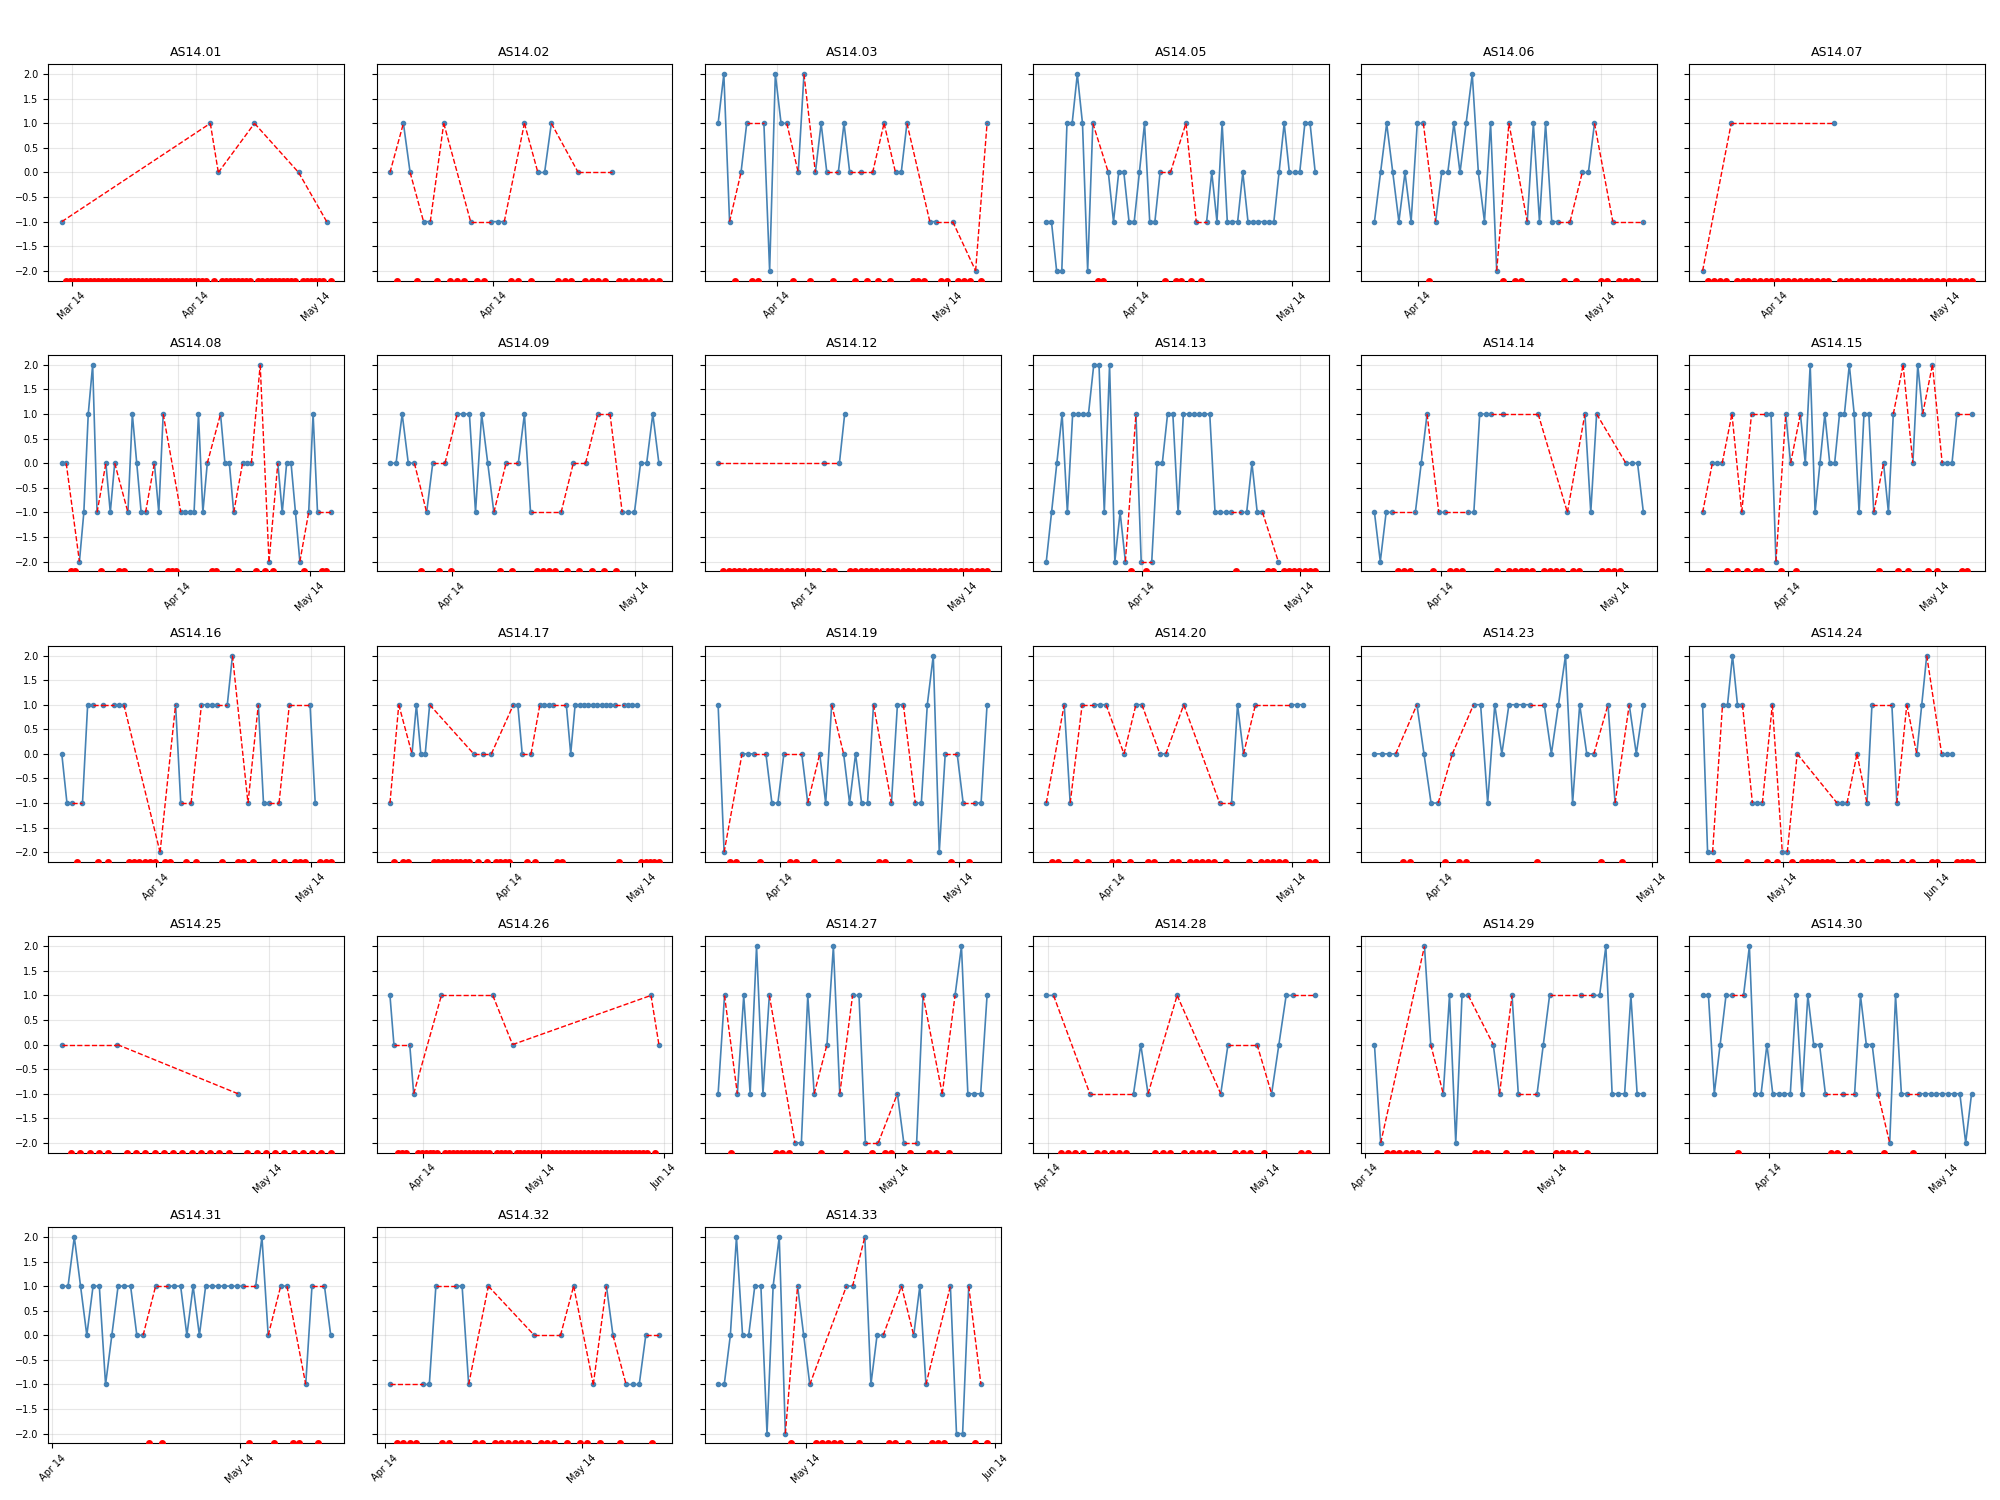
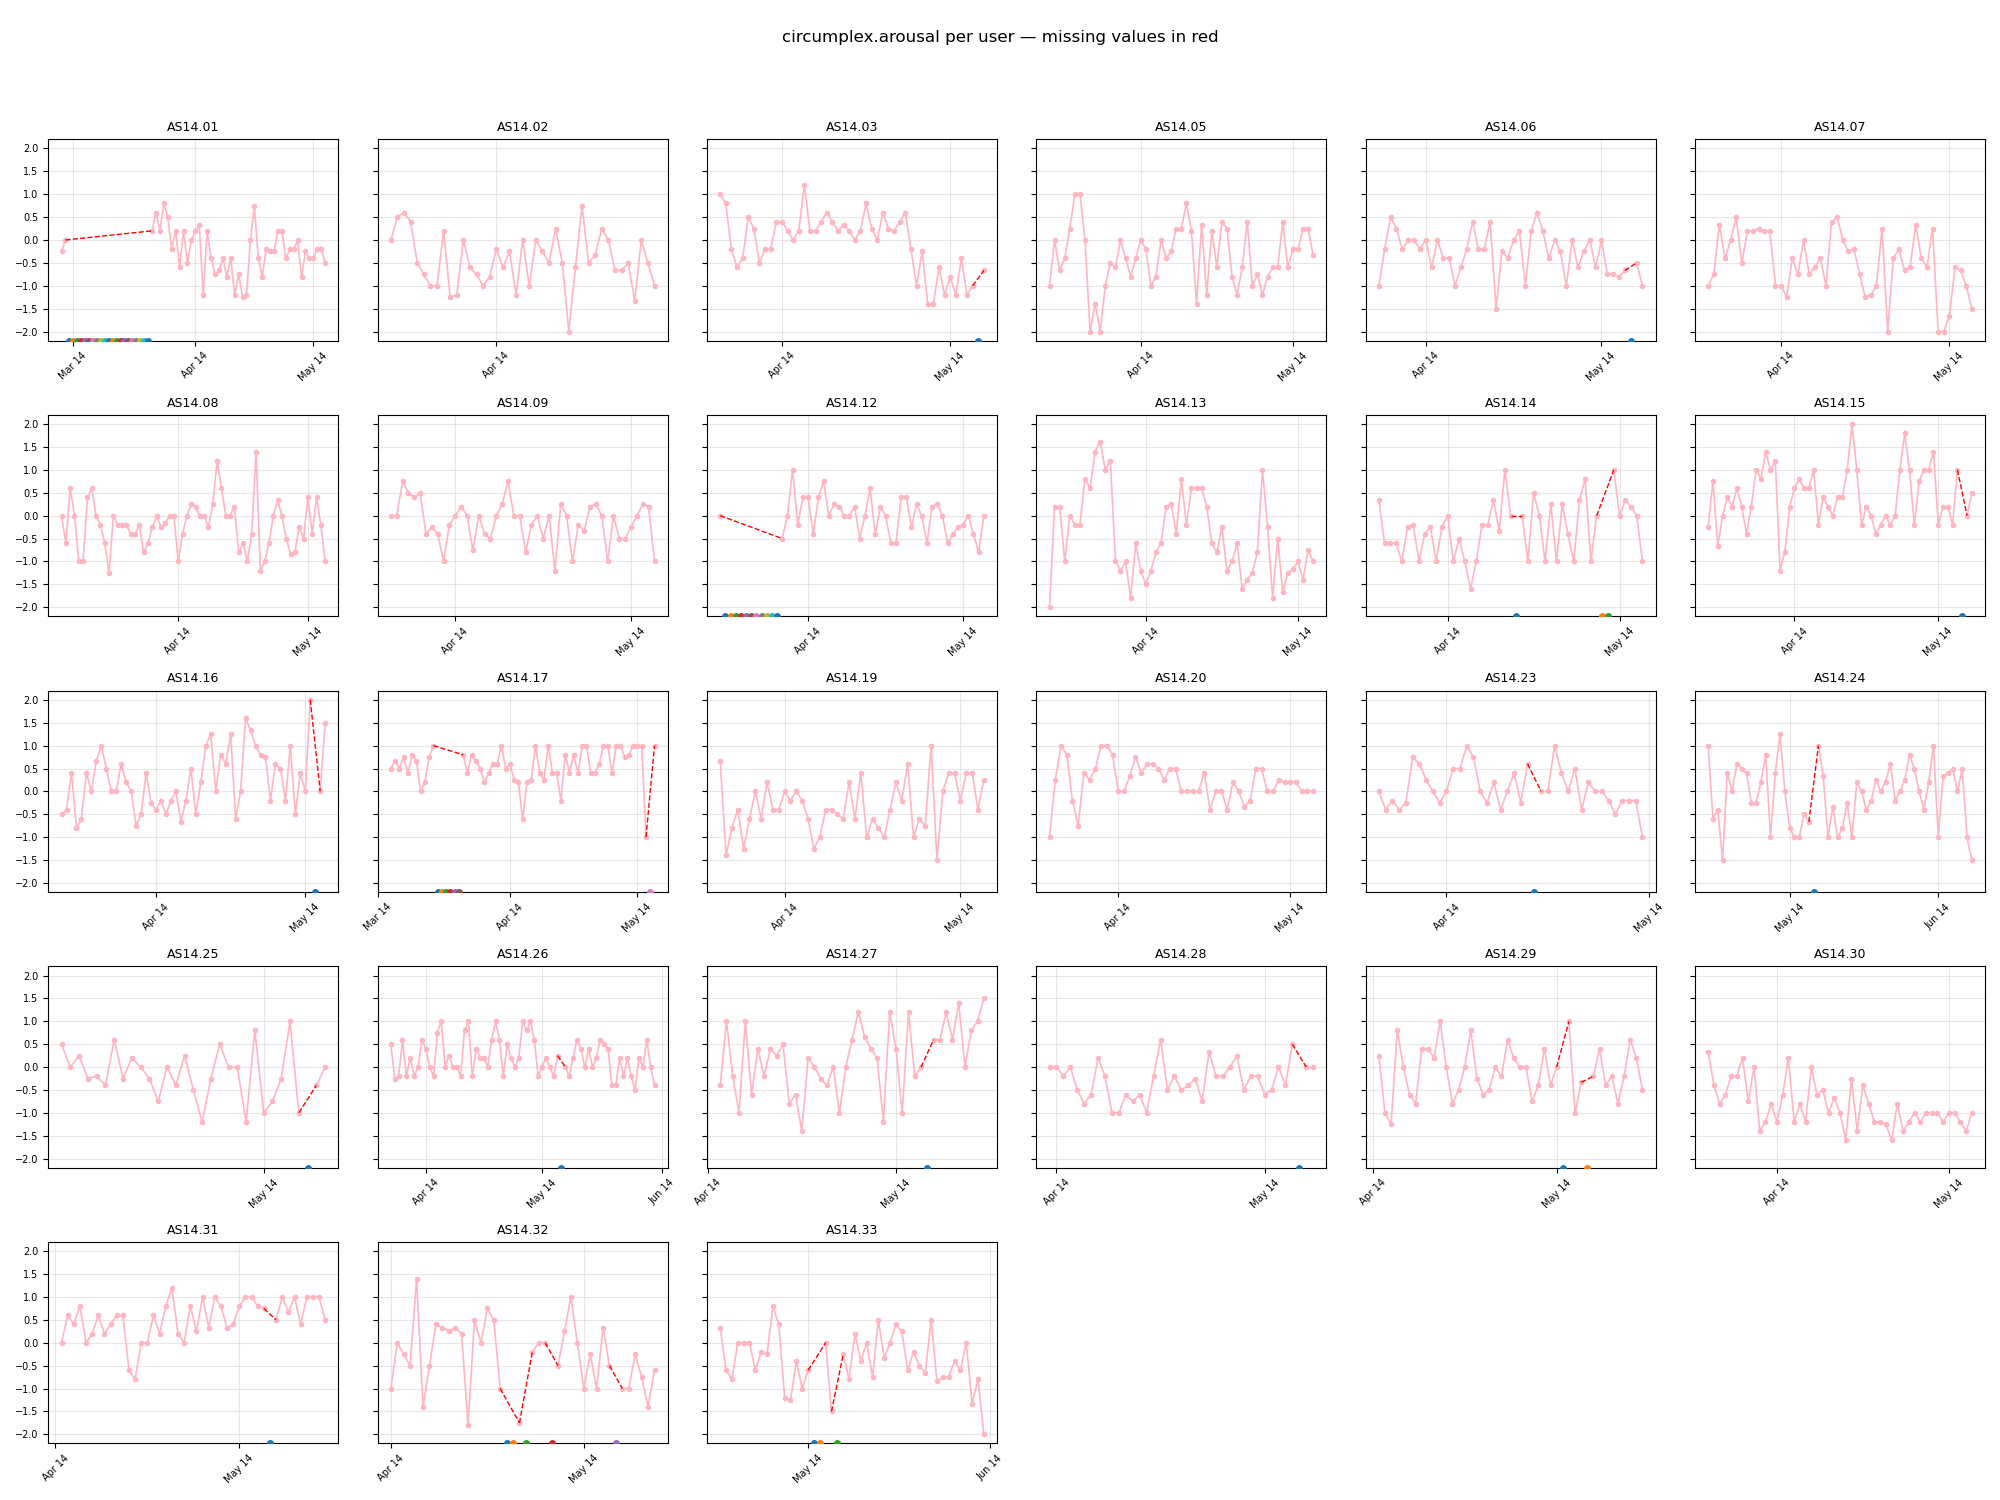
fixed plots again

diff --git a/data_cleaning.py b/data_cleaning.py
@@ -145,9 +145,23 @@ def missing_imputation(df, varname: str, imputation_func):
     return new_df
 
 
+import numpy as np
+import pandas as pd
+import matplotlib.pyplot as plt
+import matplotlib.dates as mdates
+
 def plot_valence_per_user_full_calendar(df, varname: str = 'circumplex.valence'):
+    # filter variable
     valence_df = df[df['variable'] == varname].copy()
-    valence_df = valence_df.sort_values(['id', 'date'])
+    
+    # ensure datetime
+    valence_df['date'] = pd.to_datetime(valence_df['date'])
+    
+    # extract date only (drop time!)
+    valence_df['date_day'] = valence_df['date'].dt.floor('D')
+    
+    # sort
+    valence_df = valence_df.sort_values(['id', 'date_day'])
     ids = valence_df['id'].unique()
 
     ncols = 6
@@ -157,29 +171,48 @@ def plot_valence_per_user_full_calendar(df, varname: str = 'circumplex.valence')
     axes = axes.flatten()
 
     print(f"==== MISSING DATE INFO for {varname} =======")
+    
     for i, uid in enumerate(ids):
         ax = axes[i]
 
-        # get df for each user ID
-        # map date to value"
-        user_df = valence_df[valence_df['id'] == uid].set_index('date')['value']
-        # if two values on the same datetime, take the mean:
-        user_daily = user_df.groupby(level=0).mean()
-        # create complete calendar, including missing dates
-        full_range = pd.date_range(user_daily.index.min(), user_daily.index.max(), freq='D')
-        # give nan-values to missing dates
+        # subset per user
+        user_df = valence_df[valence_df['id'] == uid]
+
+        # average per DAY (this is the key fix)
+        user_daily = (
+            user_df
+            .groupby('date_day')['value']
+            .mean()
+            .sort_index()
+        )
+
+        # full calendar (daily)
+        full_range = pd.date_range(
+            user_daily.index.min(),
+            user_daily.index.max(),
+            freq='D'
+        )
+
         user_full = user_daily.reindex(full_range)
 
-        #print missing values
+        # missing stats
         n_total = len(user_full)
         n_missing = user_full.isna().sum()
         frac = n_missing / n_total
         print(f"- {uid}: {n_missing} missing / {n_total} total ({frac:.1%})")
 
-        # plot existing data points
-        ax.plot(user_full.index, user_full.values, marker='o', linestyle='-', color='steelblue', linewidth=1.2, markersize=3)
+        # plot main line
+        ax.plot(
+            user_full.index,
+            user_full.values,
+            marker='o',
+            linestyle='-',
+            linewidth=1.2,
+            color="lightpink",
+            markersize=3
+        )
 
-        # plot missing data
+        # highlight missing values
         in_gap = False
         gap_start_val = None
         gap_start_date = None
@@ -192,12 +225,25 @@ def plot_valence_per_user_full_calendar(df, varname: str = 'circumplex.valence')
                         gap_start_date = before.index[-1]
                         gap_start_val = before.iloc[-1]
                     in_gap = True
-                ax.plot(date, 0, marker='o', color='red',
-                        markersize=4, zorder=5, transform=ax.get_xaxis_transform())
+
+                ax.plot(
+                    date, 0,
+                    marker='o',
+                    markersize=4,
+                    zorder=5,
+                    transform=ax.get_xaxis_transform()
+                )
+
             else:
                 if in_gap and gap_start_date is not None:
-                    ax.plot([gap_start_date, date], [gap_start_val, val],
-                            color='red', linestyle='--', linewidth=1.0, zorder=4)
+                    ax.plot(
+                        [gap_start_date, date],
+                        [gap_start_val, val],
+                        linestyle='--',
+                        linewidth=1.0,
+                        color='red',
+                        zorder=4
+                    )
                 in_gap = False
                 gap_start_val = None
                 gap_start_date = None
@@ -209,12 +255,12 @@ def plot_valence_per_user_full_calendar(df, varname: str = 'circumplex.valence')
         ax.tick_params(axis='y', labelsize=7)
         ax.grid(True, alpha=0.3)
 
-    # Hide any unused subplots
+    # hide unused axes
     for j in range(len(ids), len(axes)):
         axes[j].set_visible(False)
 
-    fig.suptitle(f'{varname} per user — missing values in red', fontsize=12, y=1.01)
-    plt.tight_layout()
+    fig.suptitle(f'{varname} per user — missing values in red', fontsize=12, y=0.98)
+    plt.tight_layout(rect=[0, 0, 1, 0.95])
     plt.savefig(f'Figures/full_calendar_all_ids_{varname}.png')
     plt.show()
 
@@ -246,7 +292,7 @@ def plot_valence_per_user_with_missing(df, varname: str = 'circumplex.valence'):
 
         # plot existing values
         ax.plot(present.index, present.values, marker='o', linestyle='-',
-                color='steelblue', linewidth=1.2, markersize=3)
+                color='orange', linewidth=1.2, markersize=3)
 
         # mark missing rows as red dots on x-axis
         for md in missing.index:
@@ -264,7 +310,7 @@ def plot_valence_per_user_with_missing(df, varname: str = 'circumplex.valence'):
         axes[j].set_visible(False)
 
     fig.suptitle(f'{varname} per user — missing values in red', fontsize=12, y=1.01)
-    plt.tight_layout()
+    plt.tight_layout(rect=[0, 0, 1, 0.96])
     plt.savefig(f'Figures/missinvals_all_ids_{varname}.png')
     plt.show()
 
